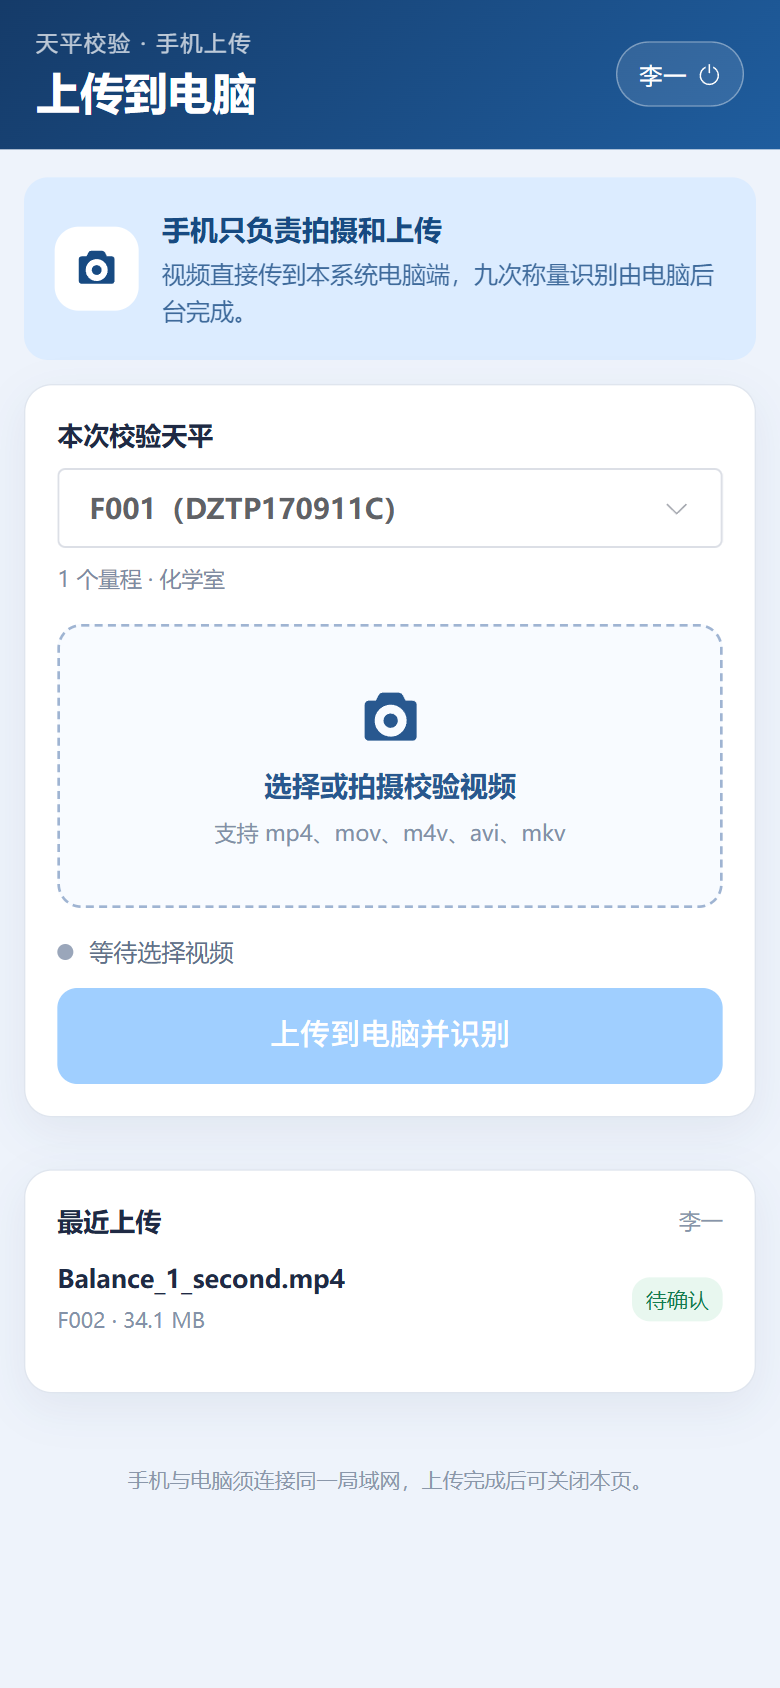
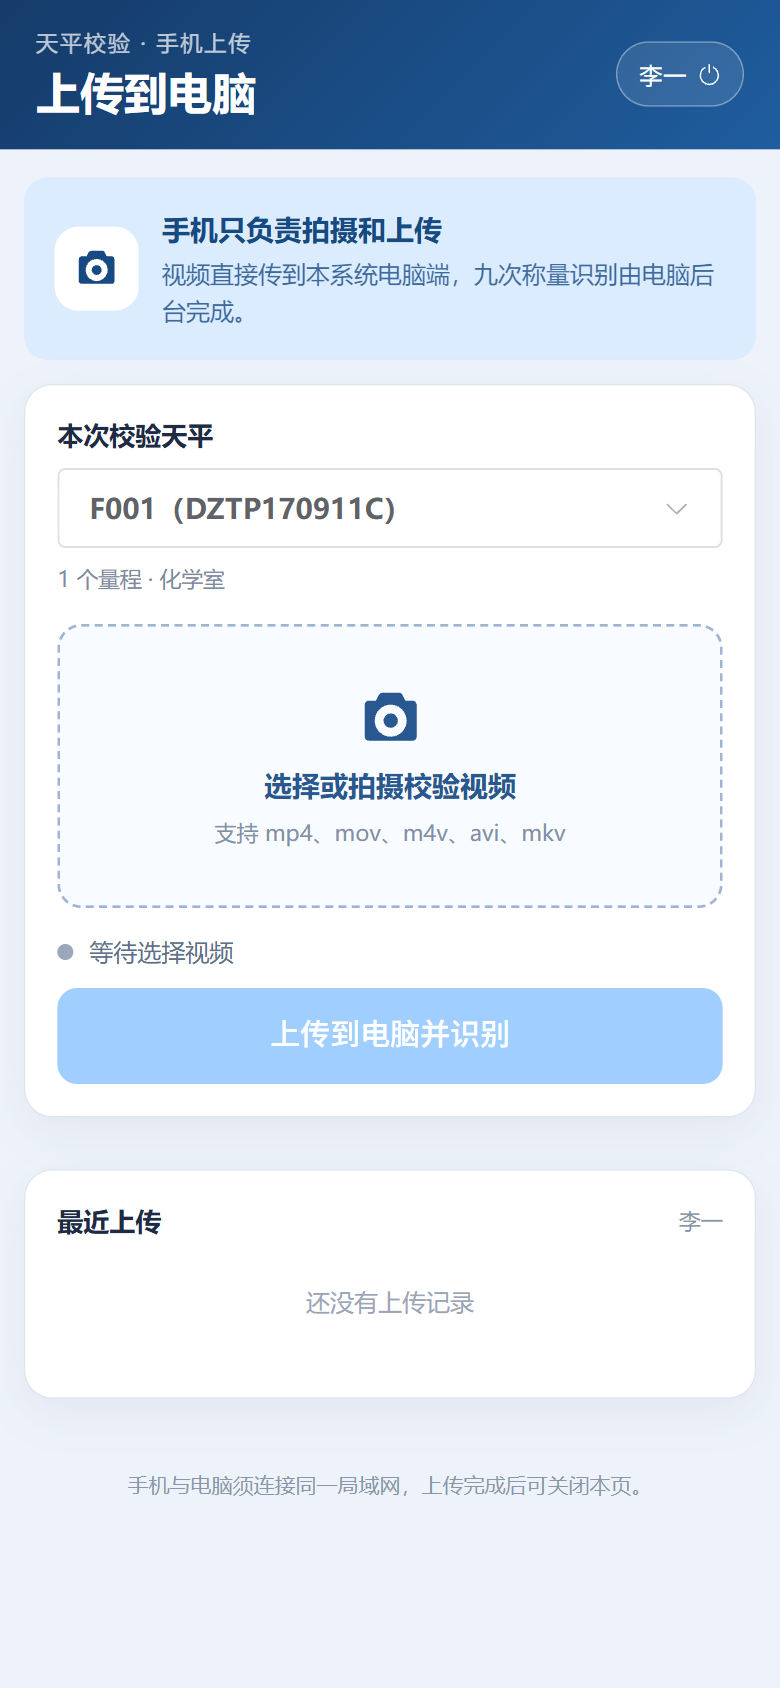
修复：手机扫码登录后自动进入移动上传页

diff --git a/frontend/src/utils/device.js b/frontend/src/utils/device.js
@@ -1,0 +1,17 @@
+/** Detect phone/tablet browsers used for the dedicated upload entry. */
+export function isMobileClient() {
+  if (typeof navigator === 'undefined' || typeof window === 'undefined') return false
+  return /Android|iPhone|iPad|iPod|Mobile|HarmonyOS|MicroMessenger/i
+    .test(navigator.userAgent || '') || window.matchMedia('(max-width: 640px)').matches
+}
+
+/** Only allow local application paths as login redirect targets. */
+export function safeLocalPath(value) {
+  return typeof value === 'string' && value.startsWith('/') && !value.startsWith('//')
+    ? value
+    : null
+}
+
+export function landingPath(redirect, mobile) {
+  return safeLocalPath(redirect) || (mobile ? '/mobile' : '/workbench')
+}

diff --git a/frontend/src/views/LoginView.vue b/frontend/src/views/LoginView.vue
@@ -3,6 +3,7 @@ import { ref } from 'vue'
 import { useRoute, useRouter } from 'vue-router'
 import { ElMessage } from 'element-plus'
 import { login } from '../stores/auth'
+import { isMobileClient, landingPath } from '../utils/device'
 
 const username = ref('liyi')
 const password = ref('123456')
@@ -18,7 +19,7 @@ async function submit() {
   loading.value = true
   try {
     await login(username.value.trim(), password.value)
-    router.replace(route.query.redirect || '/workbench')
+    router.replace(landingPath(route.query.redirect, isMobileClient()))
   } catch (err) {
     ElMessage.error(err.message)
   } finally {

diff --git a/frontend/src/router/index.js b/frontend/src/router/index.js
@@ -1,5 +1,6 @@
 import { createRouter, createWebHistory } from 'vue-router'
 import { auth, restore } from '../stores/auth'
+import { isMobileClient } from '../utils/device'
 
 const routes = [
   { path: '/login', name: 'login', component: () => import('../views/LoginView.vue') },
@@ -32,6 +33,9 @@ router.beforeEach(async (to) => {
   const user = auth.user || (await restore())
   if (!user) {
     return { name: 'login', query: { redirect: to.fullPath } }
+  }
+  if (to.name === 'workbench' && isMobileClient()) {
+    return { name: 'mobileUpload', replace: true }
   }
   return true
 })

diff --git a/docs/测试报告.md b/docs/测试报告.md
@@ -26,15 +26,15 @@
 | `scripts/batch7-unit-check.ps1` | 天平清单校验规则 8 项 + 局域网地址选择 5 项 | 13 | 仅 JDK |
 | `analysis/test_analyze_video.py` | 小数点、g/mg、量程、数据驱动档案、人员 QR、手机入口 QR | 8 | Python |
 | `testing/validate_recognition.py` | 三段样本视频九次读数回归 | 3 | Python + ffmpeg + 样本视频 |
-| `node --test frontend/src/utils/*.test.mjs` | 限度换算、mg→g、边界判定、偏差曲线、复核/作废状态映射 | 13 | 仅 Node |
+| `node --test frontend/src/utils/*.test.mjs` | 限度换算、mg→g、偏差曲线、复核/作废状态、移动端登录落地 | 17 | 仅 Node |
 | `scripts/void-test.ps1` | 管理员作废、原因必填、永久锁定、查询、PDF和审计 | 13 | 后端 + 数据库 |
 | `scripts/test-all.ps1` | 上述独立校验与前端测试的一键执行 | 5 组 | JDK / Node |
 | `scripts/verify-release.ps1` | 交付包完整性（jar、前端、SQL/迁移、识别/二维码/测试脚本、模板、档案、文档、VERSION） | 17 | 构建产物 |
 | `scripts/browser-acceptance.ps1` | 登录、上传、自动识别、九行草稿、提交复核、记录查询 | 6 个页面节点 | 后端 + 前端 + Edge |
-| `scripts/mobile-acceptance.ps1` | 局域网 IP 打开移动页、选择 F002、上传、后台识别、成功提示 | 3 个移动页面节点 | 后端 + 前端 + 移动视口 Edge |
+| `scripts/mobile-acceptance.ps1` | 工作台自动回移动页、选择 F002、上传、后台识别、成功提示 | 4 个移动页面节点 | 后端 + 前端 + 移动视口 Edge |
 | `scripts/stress-test.ps1` | 3 路并发识别 + 6 路并发草稿提交/复核 | 9 条业务链路 | 后端 + 数据库 + 视频 |
 
-接口脚本合计 114 项，独立校验、识别与前端测试合计 53 项，交付包校验 17 项。
+接口脚本合计 114 项，独立校验、识别与前端测试合计 57 项，交付包校验 17 项。
 
 ## 三、执行记录
 
@@ -65,6 +65,7 @@
 | D4 | `mvnw test` 无法执行 | 离线仓库缺 JUnit 与 surefire 依赖 | 未修复，规则改用独立 runner 验证，JUnit 待恢复 |
 | D5 | F002 六位读数的小数点与量程归属错误 | `2000.08 mg` 与 `20000.1 mg` 数字串长度相同，两个量程共用同一砝码组 | 已修复：按数字区左边缘选显示档案，按可承载标称值的最小量程归组；三段视频及真实后端链路均通过 |
 | D6 | 手机入口二维码指向 WSL 虚拟网卡地址，手机无法访问 | 取 site-local 地址后按字符串排序，`172.30.144.1`（vEthernet WSL）排在 `192.168.0.111`（WLAN）之前；Java 的 `isVirtual()` 识别不出 Hyper-V 网卡 | 已修复：优先用默认路由出口地址，过滤 WSL/Hyper-V/VMware 等虚拟网卡并排除 169.254 地址；新增 5 项独立校验（LanAddressCheck），实测返回 192.168.0.111 |
+| D7 | 手机扫码登录后仍进入电脑工作台 | 登录页默认回退到 `/workbench`，部分扫码浏览器丢失 redirect 查询参数 | 已修复：手机客户端默认进入 `/mobile`；移动设备误入 `/workbench` 时自动切回手机页；新增 4 项前端路由测试 |
 
 ## 五、未覆盖与风险
 

diff --git a/README.md b/README.md
@@ -184,8 +184,8 @@ analysis\.venv\Scripts\python.exe -m unittest discover -s analysis -p "test_*.py
                                            # 小数点、g/mg、设备档案、人员 QR 与手机入口 QR（8 项）
 analysis\.venv\Scripts\python.exe testing\validate_recognition.py --video-dir D:\videos --ffmpeg D:\tools\ffmpeg.exe
                                            # 三段样本视频识别回归（3 个用例）
-node --test frontend/src/utils/judgement.test.mjs frontend/src/utils/review.test.mjs
-                                          # 前端换算与复核/作废状态（13 项，不依赖 npm 安装）
+node --test frontend/src/utils/judgement.test.mjs frontend/src/utils/review.test.mjs frontend/src/utils/device.test.mjs
+                                          # 前端换算、复核/作废状态与移动端路由（17 项）
 ```
 
 浏览器端可用 `scripts/browser-acceptance.ps1` 连接本机 Edge 调试端口，验证登录、上传、

diff --git a/docs/系统设计说明书.md b/docs/系统设计说明书.md
@@ -381,7 +381,7 @@ application.yml 中所有与环境相关的项都写成 ${环境变量:默认值
 
 - 后端 .\mvnw.cmd -o -DskipTests compile 通过（61 个源文件），配置改动不影响编译
 - check-environment.ps1 在交付验证环境 10 项全部通过（JDK 23、Node 24、MySQL 客户端、ffmpeg、端口、磁盘与目录可写）
-- batch6-unit-check 16 项、batch7-unit-check 13 项、node --test 13 项通过；test-all.ps1 在后端在线时汇总 10 组、失败 0 组
+- batch6-unit-check 16 项、batch7-unit-check 13 项、node --test 17 项通过；test-all.ps1 在后端在线时汇总 10 组、失败 0 组
 - verify-release.ps1 对最终交付目录 17 项全部通过
 - package-release / start-backend / init-database 的 -DryRun 输出正确；真实构建需在具备依赖仓库与前端 node_modules 的机器执行
 

diff --git a/docs/提交甲方完整检查清单.md b/docs/提交甲方完整检查清单.md
@@ -96,7 +96,7 @@ pwsh -File scripts\check-environment.ps1
 - [ ] 批次7 独立校验：13/13。
 - [ ] 识别单元测试：8/8。
 - [ ] 三段视频识别回归：3/3。
-- [ ] 前端单元测试：13/13。
+- [ ] 前端单元测试：17/17。
 - [ ] 作废记录接口测试：13/13。
 - [ ] [硬性阻止] `verify-release.ps1` 为 17/17。
 
@@ -226,6 +226,7 @@ pwsh -File scripts\verify-release.ps1 `
 - [ ] [硬性阻止] 手机和电脑在同一局域网。
 - [ ] [硬性阻止] 工作台二维码地址使用正确网卡 IP。
 - [ ] 手机扫码可以打开 `/mobile`。
+- [ ] 手机误入 `/workbench` 时会自动返回 `/mobile`。
 - [ ] 手机页面布局没有横向滚动、遮挡或按钮不可用。
 - [ ] 手机可以调用相机拍摄或选择已有视频。
 - [ ] 手机上传进度可见。
